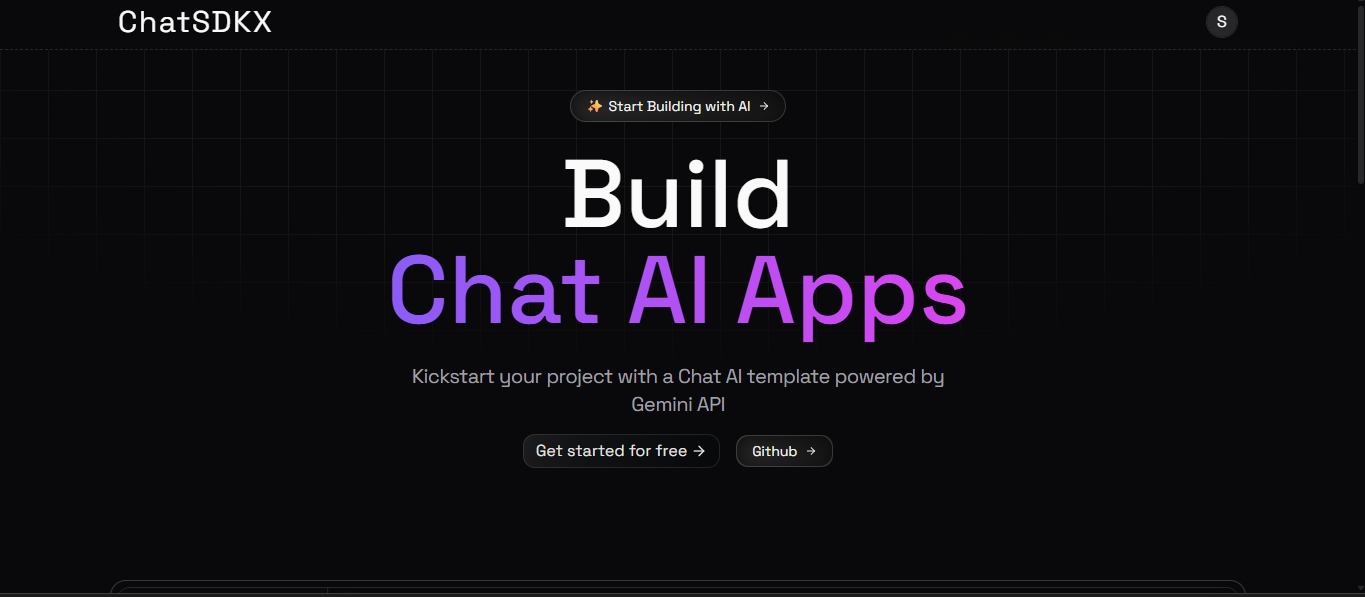
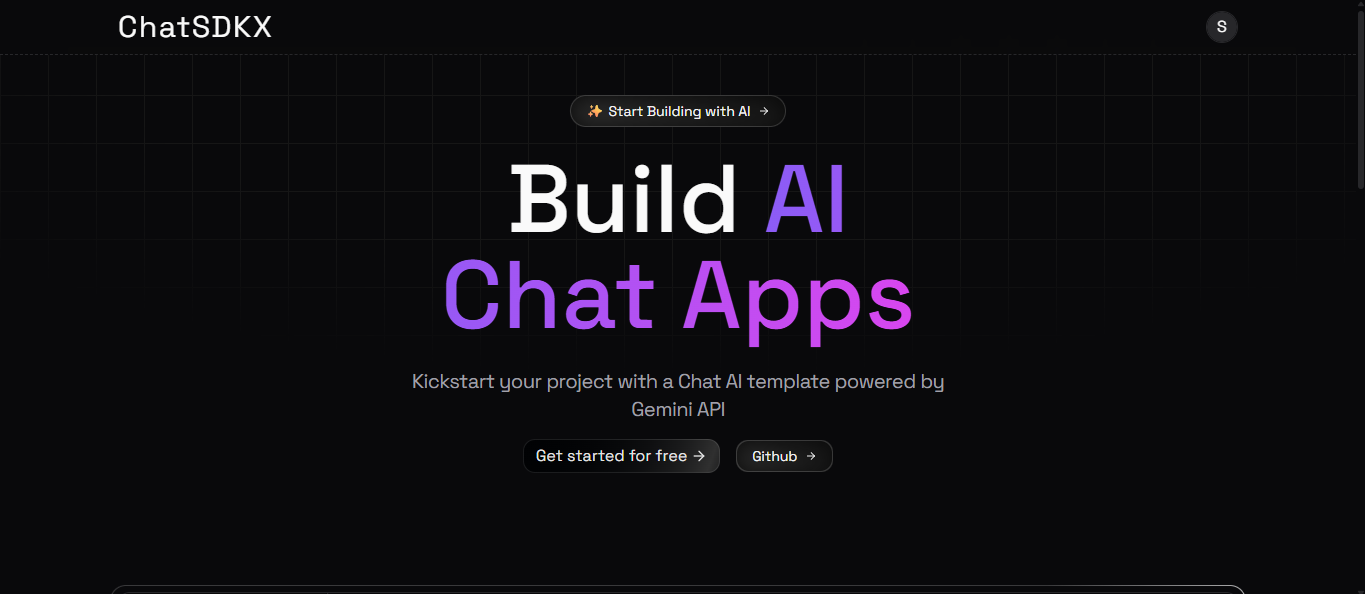
dep bug fix

diff --git a/app/(home)/hero.tsx b/app/(home)/hero.tsx
@@ -43,9 +43,9 @@ const HeroSection = ({ isAuthenticated }: HeroSectionProps) => {
             </GradientButton>
 
             <h1 className="text-foreground text-center py-6 text-5xl font-medium text-balance sm:text-6xl md:text-7xl lg:text-8xl  w-full">
-              Build <br />
-              <span className="text-transparent bg-gradient-to-r from-violet-500 to-fuchsia-500 bg-clip-text inline-bloc">
-                Chat AI Apps
+              Build{" "}
+              <span className="text-transparent bg-gradient-to-r from-violet-500 to-fuchsia-500 bg-clip-text inline-bloc ">
+                AI <br /> Chat Apps
               </span>
             </h1>
 
@@ -110,20 +110,18 @@ const HeroSection = ({ isAuthenticated }: HeroSectionProps) => {
             transition={{ delay: 0.3, duration: 0.8, ease: "easeInOut" }}
             className="flex flex-col items-center justify-center gap-8  "
           >
-            <h1 className="mt-8 text-foreground py-4  text-center text-4xl font-medium tracking-tight md:text-7xl">
-              Build <br />
-              <span className="text-transparent bg-gradient-to-r from-violet-500 to-fuchsia-500 bg-clip-text inline-bloc text-6xl">
-                AI Chat Apps{" "}
+            <h1 className="text-foreground text-center py-4 text-5xl font-medium text-balance sm:text-6xl md:text-7xl lg:text-8xl  w-full">
+              Start <br />
+              <span className="text-transparent bg-gradient-to-r from-violet-500 to-fuchsia-500 bg-clip-text inline-bloc ">
+                Building <br /> AI Chat Web App
               </span>
-              <br />
-              with Ease
             </h1>
             <BackgroundShine>
               <Link
                 href={isAuthenticated ? "/chat" : "/auth/sign-in"}
                 className="flex items-center "
               >
-                Get started for free
+                Get started
                 <ArrowRightIcon className="w-4 h-4 ml-2" />
               </Link>
             </BackgroundShine>
